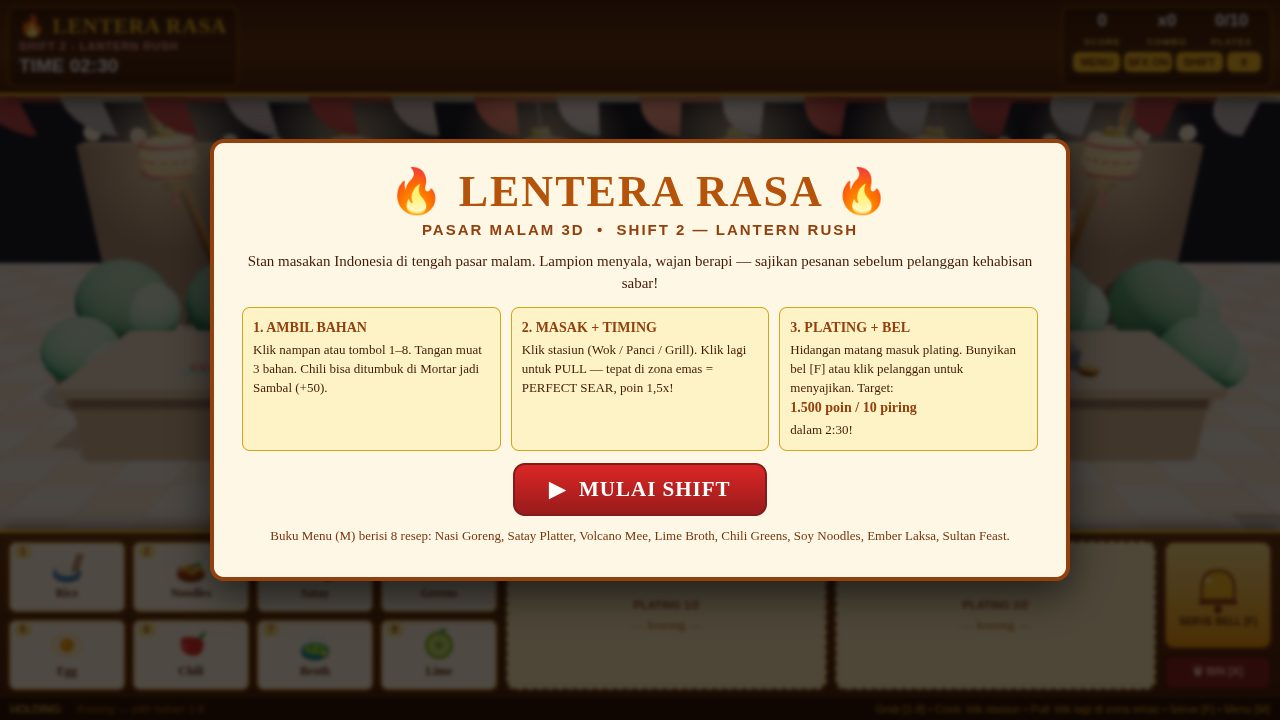
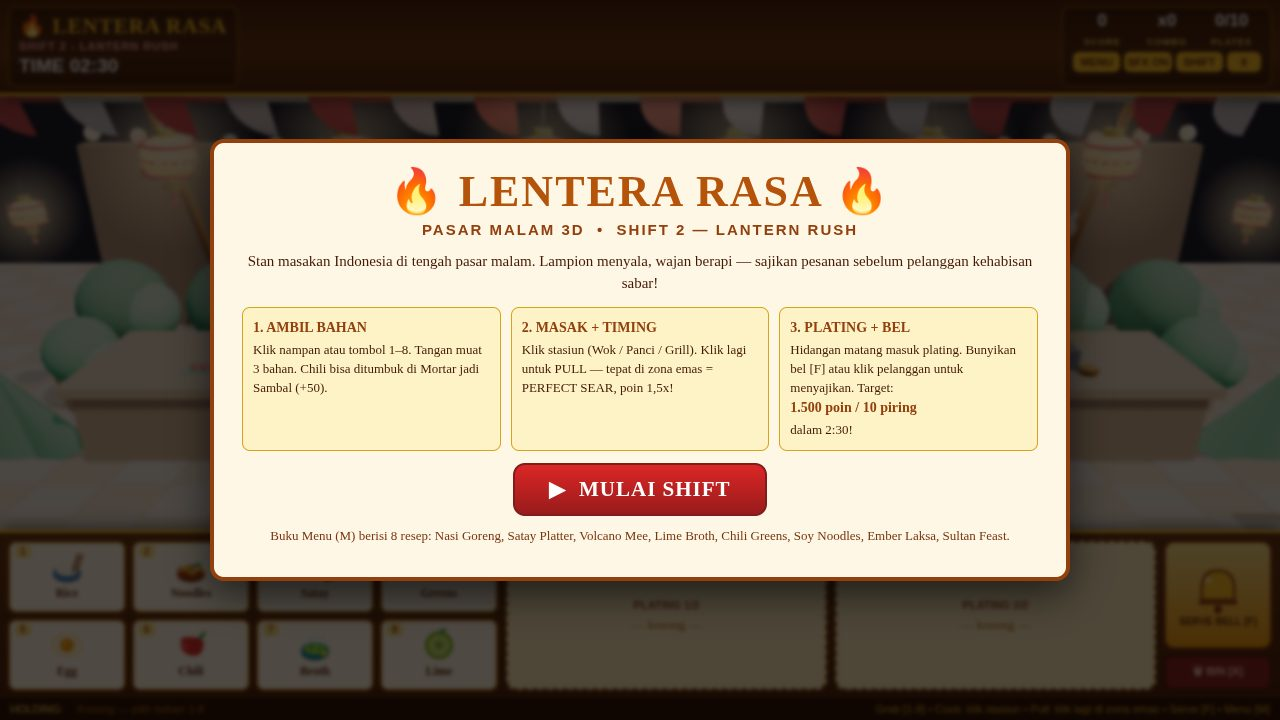
Polish maksimal: popup skor, ekspresi cemas pelanggan, lampion ekstra, api + asap, koki mengaduk

diff --git a/game/src/world.js b/game/src/world.js
@@ -54,6 +54,7 @@ function makeFace(skin, opts = {}) {
   const s = opts.s || 1;
   const g = new THREE.Group();
   const eyeW = std(0xffffff), eyeB = std(0x1a1a1a);
+  g.userData.brows = [];
   for (const sx of [-1, 1]) {
     if (opts.expr === 'happy' || (opts.expr === 'wink' && sx === 1)) {
       // mata tertutup bahagia: busur
@@ -69,20 +70,30 @@ function makeFace(skin, opts = {}) {
     }
     const b = mesh(new THREE.BoxGeometry(0.17 * s, 0.035 * s, 0.02 * s), std(0x2a1a10), sx * 0.21 * s, 0.22 * s, 0.48 * s);
     b.rotation.z = sx * -0.12; g.add(b);
+    g.userData.brows.push({ m: b, sx });
     const c = mesh(new THREE.SphereGeometry(0.075 * s, 10, 10), std(0xff9d9d), sx * 0.34 * s, -0.08 * s, 0.44 * s);
     c.scale.set(1, 0.7, 0.4); g.add(c);
   }
   g.add(mesh(new THREE.SphereGeometry(0.06 * s, 10, 10), skin, 0, -0.04 * s, 0.52 * s));
+  // mulut senyum + mulut cemberut (tukar saat kesabaran menipis)
+  const smile = mesh(new THREE.TorusGeometry(0.16 * s, 0.028 * s, 8, 16, Math.PI * 0.85), std(0x7a3b22), 0, -0.13 * s, 0.49 * s);
+  smile.rotation.z = Math.PI + (Math.PI - Math.PI * 0.85) / 2;
+  smile.rotation.x = 0.15;
+  g.add(smile);
+  const frown = mesh(new THREE.TorusGeometry(0.14 * s, 0.026 * s, 8, 16, Math.PI * 0.8), std(0x7a3b22), 0, -0.2 * s, 0.49 * s);
+  frown.rotation.z = (Math.PI - Math.PI * 0.8) / 2;
+  frown.rotation.x = 0.15;
+  frown.visible = false;
+  g.add(frown);
   if (opts.expr === 'wow') {
-    // mulut terbuka kaget
+    // mulut terbuka kaget (di atas senyum)
     const mo = mesh(new THREE.SphereGeometry(0.09 * s, 12, 10), std(0x5b2121), 0, -0.16 * s, 0.48 * s);
     mo.scale.set(1, 1.25, 0.5); g.add(mo);
-  } else {
-    const smile = mesh(new THREE.TorusGeometry(0.16 * s, 0.028 * s, 8, 16, Math.PI * 0.85), std(0x7a3b22), 0, -0.13 * s, 0.49 * s);
-    smile.rotation.z = Math.PI + (Math.PI - Math.PI * 0.85) / 2;
-    smile.rotation.x = 0.15;
-    g.add(smile);
+    smile.visible = false;
   }
+  g.userData.smile = smile;
+  g.userData.frown = frown;
+  g.userData.expr = opts.expr || 'smile';
   if (opts.glasses) {
     const ring = std(0x222222, { metalness: 0.4, roughness: 0.4 });
     for (const sx of [-1, 1]) g.add(mesh(new THREE.TorusGeometry(0.16 * s, 0.025 * s, 8, 24), ring, sx * 0.21 * s, 0.06 * s, 0.55 * s));
@@ -112,6 +123,7 @@ function makeCustomer(kind) {
   const face = makeFace(skin, { glasses: kind === 'peci', s: 1.32, expr: exprs[kind] });
   face.position.set(0, 2.08, 0);
   g.add(face);
+  g.userData.face = face;
   if (kind === 'batik') {
     const hair = mesh(new THREE.SphereGeometry(0.58, 20, 16), std(0x2b1a12), 0, 2.3, -0.04);
     hair.scale.set(0.98, 0.72, 0.95);
@@ -183,6 +195,7 @@ function makeChef() {
   const face = makeFace(skin, { s: 1.0, expr: 'happy' });
   face.position.set(0, 1.84, 0);
   g.add(face);
+  g.userData.face = face;
   // topi koki
   g.add(mesh(new THREE.CylinderGeometry(0.4, 0.42, 0.22, 16), std(0xffffff), 0, 2.18, 0));
   const puff = mesh(new THREE.SphereGeometry(0.44, 16, 12), std(0xffffff), 0, 2.38, 0);
@@ -350,9 +363,9 @@ function makeStation(st) {
     const fc = [0xf97316, 0xfbbf24, 0xef4444, 0xf97316, 0xfbbf24];
     for (let i = 0; i < 5; i++) {
       const a = (i / 5) * Math.PI * 2 + 0.4;
-      const cone = mesh(new THREE.ConeGeometry(0.2, 0.85, 8),
+      const cone = mesh(new THREE.ConeGeometry(0.22, 1.05, 8),
         new THREE.MeshStandardMaterial({ color: fc[i], emissive: fc[i], emissiveIntensity: 2.4, transparent: true, opacity: 0.95 }),
-        Math.cos(a) * 0.52, 0.55, Math.sin(a) * 0.42);
+        Math.cos(a) * 0.52, 0.62, Math.sin(a) * 0.42);
       cone.castShadow = false;
       flames.add(cone);
     }
@@ -395,15 +408,27 @@ function makeStation(st) {
     top.add(mesh(new THREE.CylinderGeometry(0.13, 0.13, 0.04, 12), std(0xdc2626, { roughness: 0.3 }), -0.85, 0.12, 0.55));
     top.add(mesh(new THREE.CylinderGeometry(0.14, 0.1, 0.14, 12), std(0x451a03), 0.85, 0.07, 0.55));
     top.add(mesh(new THREE.CylinderGeometry(0.11, 0.11, 0.04, 12), std(0x78350f, { roughness: 0.3 }), 0.85, 0.14, 0.55));
-    // bara menyala
+    // bara menyala + pijar di bawah panggangan
     const coals = new THREE.Group();
     for (let i = 0; i < 8; i++) {
       coals.add(mesh(new THREE.BoxGeometry(0.16, 0.08, 0.12),
-        new THREE.MeshStandardMaterial({ color: 0xef4444, emissive: 0xdc2626, emissiveIntensity: 1.2 }),
+        new THREE.MeshStandardMaterial({ color: 0xef4444, emissive: 0xdc2626, emissiveIntensity: 1.6 }),
         (Math.random() - 0.5) * 1.2, 0.36, (Math.random() - 0.5) * 0.5));
     }
     top.add(coals);
+    const coalGlow = new THREE.Sprite(new THREE.SpriteMaterial({
+      map: canvasTex(128, 128, (c) => {
+        const gr = c.createRadialGradient(64, 64, 4, 64, 64, 62);
+        gr.addColorStop(0, 'rgba(255,90,0,0.85)');
+        gr.addColorStop(1, 'rgba(255,90,0,0)');
+        c.fillStyle = gr; c.fillRect(0, 0, 128, 128);
+      }), transparent: true, depthWrite: false,
+    }));
+    coalGlow.scale.set(2.4, 1.2, 1);
+    coalGlow.position.set(0, 0.42, 0);
+    top.add(coalGlow);
     g.userData.coals = coals;
+    g.userData.coalGlow = coalGlow;
   }
   g.add(top);
   // nameplate kayu di depan meja stasiun (bukan melayang — tidak menutupi muka pelanggan)
@@ -530,7 +555,26 @@ export function buildWorld(scene) {
     bush.add(mesh(new THREE.SphereGeometry(0.55, 12, 10), std(0x22c55e), 0.5, 0.5, 0.15));
     scene.add(bush);
   }
-  // pot tanaman di sisi
+  // daun pisang + keranjang di sisi stan (detail lantai)
+  for (const sx of [-1, 1]) {
+    const leaves = new THREE.Group();
+    leaves.position.set(sx * 8.9, 0, -0.8);
+    for (let i = 0; i < 3; i++) {
+      const leaf = mesh(new THREE.ConeGeometry(0.5, 1.6, 6), std(0x16a34a, { roughness: 0.6 }), (i - 1) * 0.4, 0.7, 0);
+      leaf.scale.set(1, 1, 0.25);
+      leaf.rotation.z = (i - 1) * 0.5;
+      leaves.add(leaf);
+    }
+    scene.add(leaves);
+    const basket = new THREE.Group();
+    basket.position.set(sx * 8.2, 0, 2.4);
+    basket.add(mesh(new THREE.CylinderGeometry(0.5, 0.38, 0.45, 12), std(0x8a5a33), 0, 0.22, 0));
+    for (let i = 0; i < 5; i++) {
+      basket.add(mesh(new THREE.SphereGeometry(0.13, 10, 8), std(sx < 0 ? 0xdc2626 : 0x84cc16, { roughness: 0.35 }), (Math.random() - 0.5) * 0.55, 0.5, (Math.random() - 0.5) * 0.4));
+    }
+    scene.add(basket);
+  }
+  // pot tanaman + peti kayu di sisi
   for (const sx of [-1, 1]) {
     const pot = new THREE.Group();
     pot.position.set(sx * 8.6, 0, -2.5);
@@ -538,7 +582,6 @@ export function buildWorld(scene) {
     pot.add(mesh(new THREE.SphereGeometry(0.55, 12, 10), std(0x16a34a), 0, 0.9, 0));
     pot.add(mesh(new THREE.SphereGeometry(0.4, 12, 10), std(0x22c55e), 0.3, 0.75, 0.1));
     scene.add(pot);
-    // peti kayu
     const crate = new THREE.Group();
     crate.position.set(sx * 8.6, 0, 1.8);
     crate.add(mesh(new THREE.BoxGeometry(1.1, 0.7, 1.1), std(0x8a5a33), 0, 0.35, 0));
@@ -553,6 +596,12 @@ export function buildWorld(scene) {
   const lanternXs = [-6.8, -4.2, -1.4, 1.4, 4.2, 6.8];
   for (const x of lanternXs) {
     const l = makeLantern(x, 3.85, -2.7, 1.15);
+    scene.add(l);
+    refs.lanterns.push(l);
+  }
+  // lampion kecil di sisi (lebih banyak, lebih hangat)
+  for (const [x, y, z] of [[-8.6, 3.2, -2.0], [-3.5, 3.3, -2.1], [3.5, 3.3, -2.1], [8.6, 3.2, -2.0]]) {
+    const l = makeLantern(x, y, z, 0.7);
     scene.add(l);
     refs.lanterns.push(l);
   }

diff --git a/game/src/main.js b/game/src/main.js
@@ -102,6 +102,16 @@ function toast(msg, good = false) {
   clearTimeout(t._h);
   t._h = setTimeout(() => { t.className = ''; }, 1800);
 }
+// popup skor melayang (+295, PERFECT SEAR!, x4 COMBO)
+function spawnPopup(text, sx, sy, cls = '') {
+  const el = document.createElement('div');
+  el.className = 'popup ' + cls;
+  el.textContent = text;
+  el.style.left = sx + 'px';
+  el.style.top = sy + 'px';
+  $('#floatLayer').appendChild(el);
+  setTimeout(() => el.remove(), 1400);
+}
 
 // ---------- HUD ----------
 function fmtTime(s) { s = Math.max(0, Math.ceil(s)); return String(Math.floor(s / 60)).padStart(2, '0') + ':' + String(s % 60).padStart(2, '0'); }
@@ -380,7 +390,11 @@ function finishCook(id, quality) {
   W.plates[slot].add(food);
   W.plates[slot].userData.food = food;
   st.mode = 'idle'; st.dish = null; st.t = 0;
-  if (quality === 'perfect') toast('★ PERFECT SEAR! Wok Hei x' + S.wokHei, true);
+  if (quality === 'perfect') {
+    toast('★ PERFECT SEAR! Wok Hei x' + S.wokHei, true);
+    const sp = project(STATIONS.find((s) => s.id === id).x, 2.9, -1.6);
+    spawnPopup('★ PERFECT SEAR!', sp.x, sp.y, 'perfect');
+  }
   else if (quality === 'raw') toast('Kurang matang — tetap disajikan (poin 50%).');
   else toast(DISHES[dishId].name + ' siap di-plating!', true);
   renderPlating();
@@ -412,6 +426,11 @@ function serveDish(dishId, slot) {
   burstAt(c.x, 2.6, c.z - 0.5);
   const cust = W.customers[idx];
   cust.userData.happy = 0.6;
+  // popup skor di atas kepala pelanggan
+  const pp = project(c.x, 3.4, c.z - 0.5);
+  spawnPopup(`+${pts}`, pp.x, pp.y);
+  if (quality === 'perfect') spawnPopup('★ PERFECT SEAR!', pp.x, pp.y + 32, 'perfect');
+  if (S.combo >= 2) spawnPopup(`x${S.combo} COMBO`, pp.x, pp.y + 60, 'combo');
   sfxServe();
   toast(`+${pts} ${order.dish.name} tersaji! Combo x${S.combo}`, true);
   newOrder(idx);
@@ -540,30 +559,44 @@ function animate() {
   // lampion bergoyang + api berkedip
   for (const l of W.lanterns) l.rotation.z = Math.sin(t * 0.8 + l.userData.phase) * 0.06;
   lanternLight.intensity = 1.15 + Math.sin(t * 2.2) * 0.12;
-  fireLight.intensity = 1.2 + Math.sin(t * 11) * 0.35 + Math.sin(t * 23) * 0.15;
   for (const f of W.flames) {
     f.children.forEach((c, i) => { c.scale.y = 0.85 + Math.sin(t * 9 + i * 1.7) * 0.25; });
   }
-  for (const c of W.coals) c.children.forEach((b, i) => { b.material.emissiveIntensity = 0.9 + Math.sin(t * 3 + i) * 0.5; });
-  // pelanggan: napas + lambaian + senang
+  for (const c of W.coals) c.children.forEach((b, i) => { b.material.emissiveIntensity = 1.2 + Math.sin(t * 3 + i) * 0.6; });
+  const gg = W.stations.grill && W.stations.grill.userData.coalGlow;
+  if (gg) gg.material.opacity = 0.65 + Math.sin(t * 5) * 0.25;
+  fireLight.intensity = 1.8 + Math.sin(t * 11) * 0.5 + Math.sin(t * 23) * 0.2;
+  // pelanggan: napas + lambaian + senang + ekspresi ikut kesabaran
   W.customers.forEach((c, i) => {
     c.position.y = Math.sin(t * 1.4 + i * 1.3) * 0.03;
     c.userData.armR.rotation.z = (c.userData.armR.userData.baseZ ?? -0.6) + Math.sin(t * 2 + i) * 0.12;
+    // angguk pelan
+    c.rotation.x = Math.sin(t * 1.1 + i * 2) * 0.03;
     if (c.userData.happy > 0) {
       c.userData.happy -= dt;
       c.position.y += Math.sin(t * 14) * 0.05;
     }
     const o = S.orders[i];
+    // ekspresi: cemas saat kesabaran < 12 dtk (senyum -> cemberut, alis naik)
+    const face = c.userData.face;
+    if (face && face.userData.expr !== 'wow') {
+      const worried = !!(o && o.patience < 12 && S.phase === 'playing');
+      face.userData.smile.visible = !worried;
+      face.userData.frown.visible = worried;
+      for (const { m, sx } of face.userData.brows) m.rotation.z = sx * (worried ? -0.38 : -0.12);
+    }
     if (o && o.patience < 10) c.rotation.z = Math.sin(t * 8) * 0.02;
     else c.rotation.z = 0;
   });
-  // koki bergerak ke stasiun aktif + lebih hidup (ayun spatula besar, kepala miring)
+  // koki: mengaduk saat ada yang masak, melambai saat idle
   const chef = W.chef;
+  const anyCooking = STATIONS.some((s) => S.stations[s.id].mode === 'cooking');
   const dx = S.chefTargetX - chef.position.x;
   chef.position.x += dx * Math.min(1, dt * 4);
   chef.position.y = Math.abs(dx) > 0.05 ? Math.abs(Math.sin(t * 10)) * 0.08 : 0;
-  chef.userData.armR.rotation.z = -0.9 + Math.sin(t * 3) * 0.25;
+  chef.userData.armR.rotation.z = anyCooking ? -0.9 + Math.sin(t * 6) * 0.35 : -0.9 + Math.sin(t * 3) * 0.25;
   chef.rotation.z = Math.sin(t * 1.8) * 0.02;
+  chef.rotation.x = anyCooking ? 0.06 : 0;
 
   if (S.phase === 'playing') {
     S.timeLeft -= dt;
@@ -619,9 +652,10 @@ const params = new URLSearchParams(location.search);
 const shot = params.get('shot');
 if (shot === 'play') {
   startGame();
-  // preset seperti referensi: skor jalan, 1 wajan masak di zona perfect, 2 plating siap
-  S.score = 1640; S.combo = 3; S.bestCombo = 4; S.served = 6; S.timeLeft = 108;
+  // preset seperti referensi: skor jalan, 2 plating siap, wok + panci masak, popup skor
+  S.score = 1640; S.combo = 4; S.bestCombo = 4; S.served = 6; S.timeLeft = 108;
   S.stations.wok = { mode: 'cooking', dish: 'nasiGoreng', t: COOK_TIME * 0.68, quality: null };
+  S.stations.pot = { mode: 'cooking', dish: 'limeBroth', t: 2.5, quality: null };
   S.plating = ['nasiGoreng', 'chiliGreens'];
   for (const [i, d] of S.plating.entries()) {
     const food = makeFood(d);
@@ -632,6 +666,16 @@ if (shot === 'play') {
   }
   S.holding = ['lime', 'greens'];
   S.orders[0].patience = 22; S.orders[1].patience = 31; S.orders[2].patience = 12; S.orders[3].patience = 38;
+  // popup skor demo berulang supaya selalu tertangkap screenshot
+  const demoPopup = () => {
+    if (S.phase !== 'playing') return;
+    const dp = project(1.9, 3.4, -4.5);
+    spawnPopup('+270', dp.x, dp.y);
+    spawnPopup('★ PERFECT SEAR!', dp.x, dp.y + 32, 'perfect');
+    spawnPopup('x4 COMBO', dp.x, dp.y + 60, 'combo');
+  };
+  demoPopup();
+  setInterval(demoPopup, 1100);
   renderHUD();
 } else if (shot === 'end') {
   startGame();

diff --git a/game/index.html b/game/index.html
@@ -98,6 +98,10 @@
   #toast { position: absolute; left: 50%; top: 108px; transform: translateX(-50%) translateY(-8px); z-index: 30; background: rgba(15,10,4,.92); color: #fef3c7; border: 1px solid #f59e0b; border-radius: 20px; padding: 7px 18px; font-family: sans-serif; font-size: 14px; font-weight: bold; opacity: 0; pointer-events: none; transition: all .2s; white-space: nowrap; }
   #toast.show { opacity: 1; transform: translateX(-50%) translateY(0); }
   #toast.good { border-color: #22c55e; color: #bbf7d0; }
+  .popup { position: absolute; transform: translate(-50%,-50%); font-family: sans-serif; font-weight: bold; font-size: 22px; color: #fde68a; text-shadow: 0 2px 0 #7c2d12, 0 0 14px rgba(251,191,36,.9); z-index: 25; pointer-events: none; white-space: nowrap; animation: floatUp 1.3s ease-out forwards; }
+  .popup.perfect { color: #fbbf24; font-size: 27px; }
+  .popup.combo { color: #86efac; font-size: 18px; }
+  @keyframes floatUp { 0% { opacity: 0; margin-top: 10px; } 15% { opacity: 1; } 100% { opacity: 0; margin-top: -70px; } }
 
   /* ---------- overlay ---------- */
   .overlay { position: absolute; inset: 0; z-index: 40; display: flex; align-items: center; justify-content: center; background: rgba(10,4,2,.72); backdrop-filter: blur(2px); }
